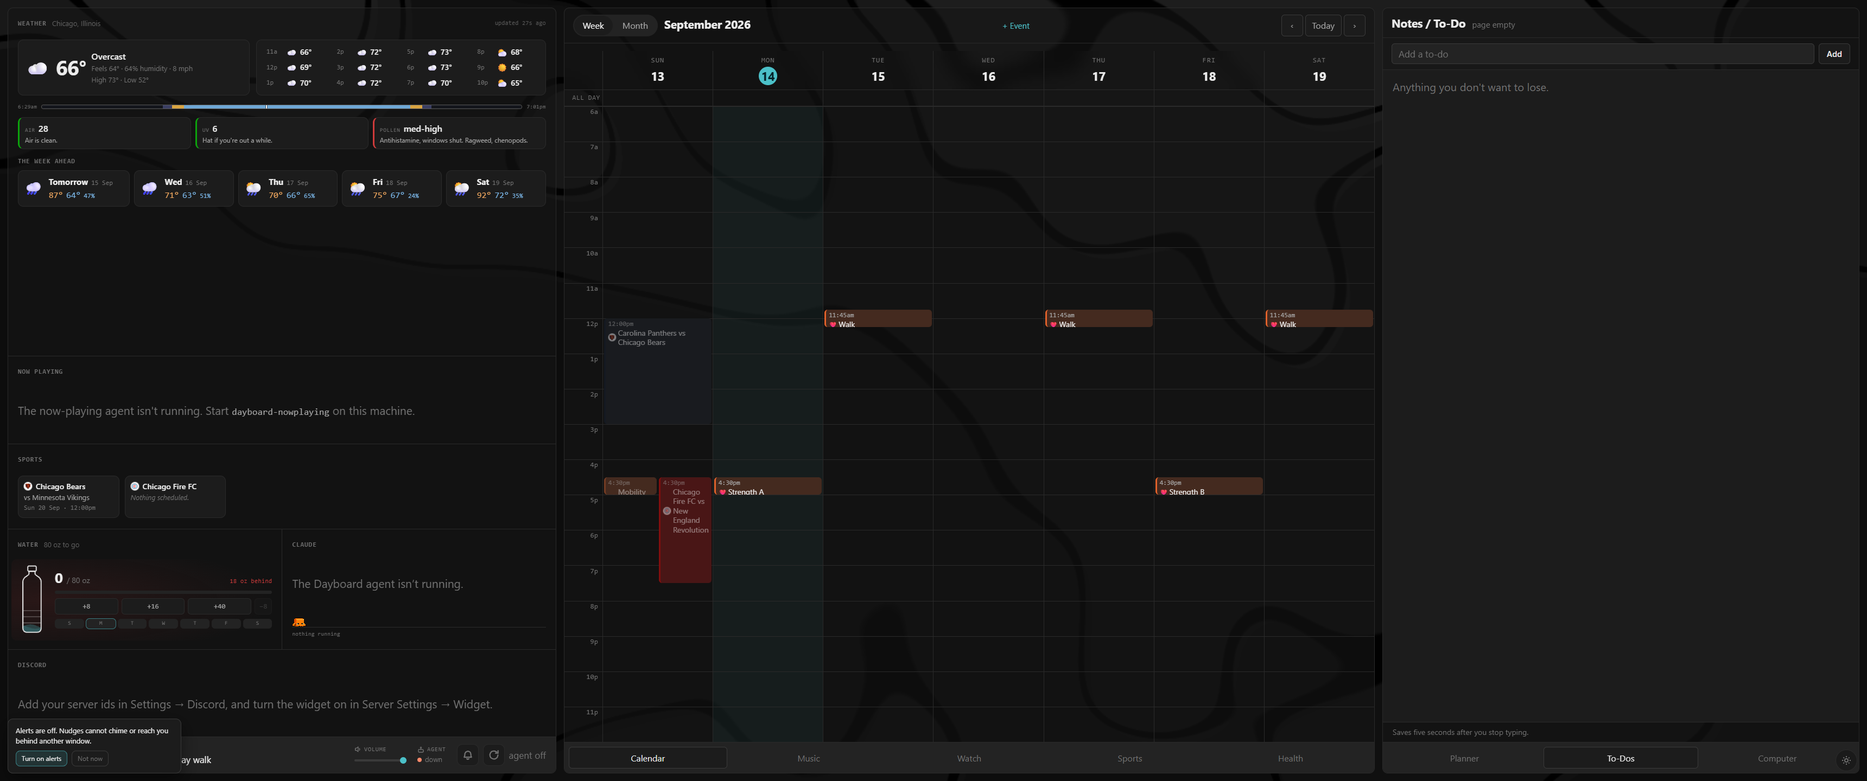
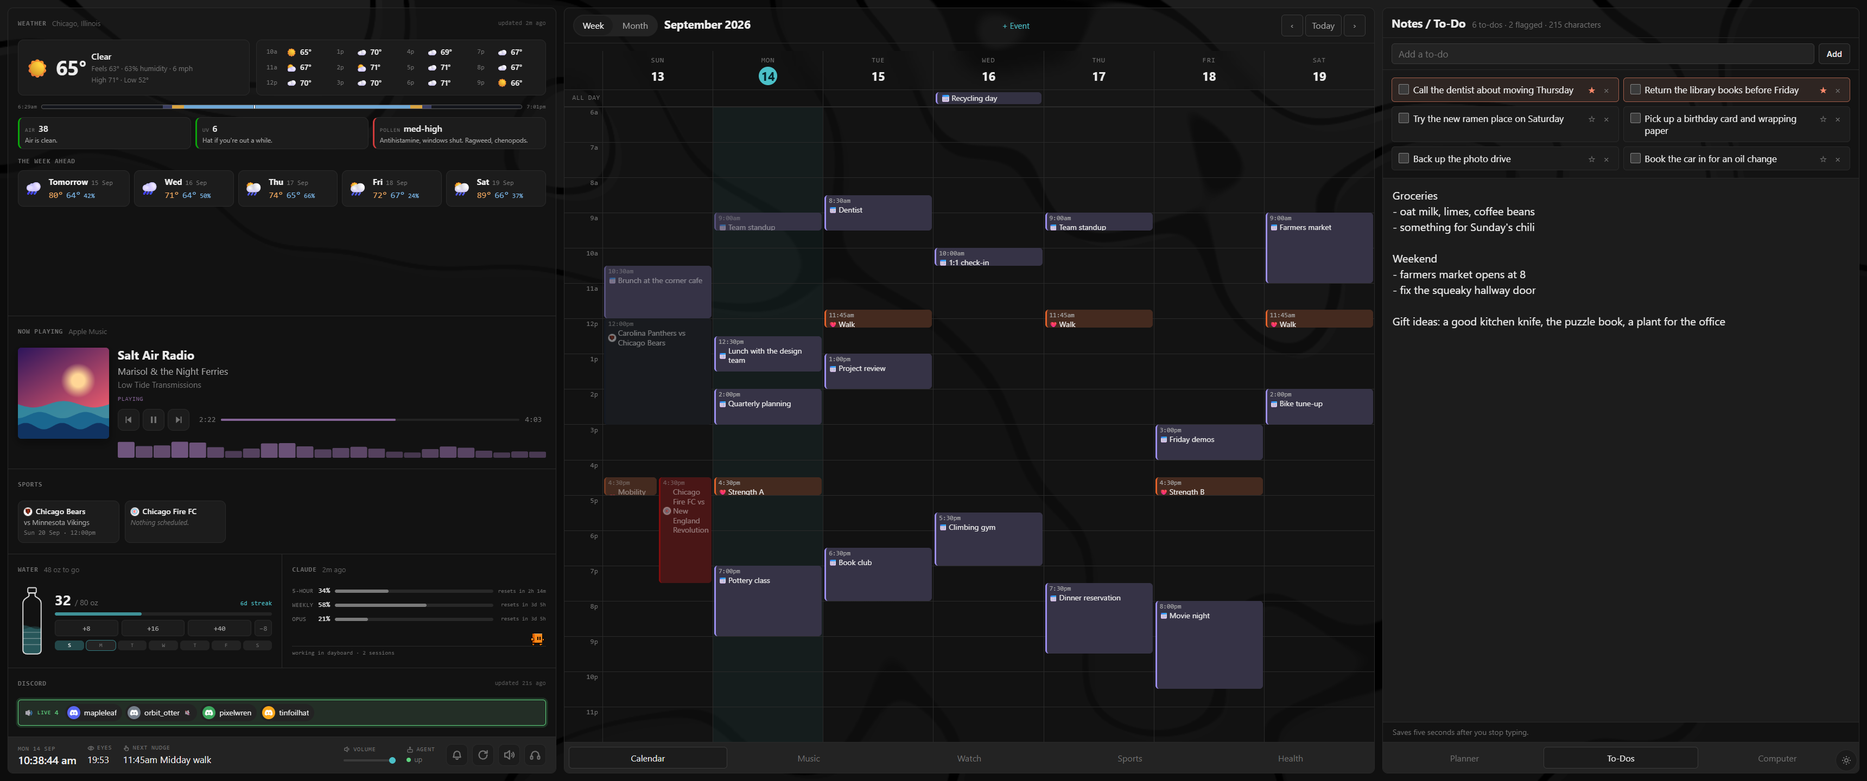
Health warning, credits, Clawd, and populated screenshots
The Health programme and its animations were written and drawn by Claude,
so the tab, the setup guide, the READMEs and the LICENSE now say that
plainly: not medical advice, check with a doctor, stop if it hurts, at
your own risk. The short warning sits under every Start (Today, the
session preview the agenda jumps to, the chair moves); the full note opens
in place and lives in one module.

Packages credits amazon-orders by Alex Laird. The pet on the shelf is
called what it is, a fan-art Clawd, with a note that Clawd is Anthropic's
and this is unofficial. The Discord line says where it is on the board.

The README opens with the board and a gallery, and every screenshot is
retaken with the widgets populated from invented sample data.

diff --git a/src/components/setup/SetupGuide.tsx b/src/components/setup/SetupGuide.tsx
@@ -8,6 +8,7 @@ import { updateSettings } from "@/lib/settings-actions";
 import { SCREEN_PRESETS, type ScreenPreset } from "@/lib/settings-schema";
 import { lightness, wallpaperGreys, screenZoom } from "@/lib/screen";
 import { selectTab } from "@/components/Panel";
+import { HEALTH_WARNING_FULL } from "@/lib/health/disclaimer";
 import { closeSetup, goToSection, isSection, openSetup, seedSetup, useSetupState, type SectionId } from "./setup-store";
 import { CheckButton, Command, Field, Lead, Lines, Note, SaveBar, Select, Steps, Text, Toggle } from "./fields";
 import {
@@ -324,7 +325,7 @@ function Welcome({ status }: SectionProps) {
     <>
       <Lead>
         Dayboard is a dashboard for your second monitor: your calendar in the middle, the weather,
-        the trains, what is playing and who is in voice down the left, and a row of tabs on the
+        the trains, what is playing and who is in your Discord Voice channel on the bottom left, and a row of tabs on the
         right for the to-dos, the mail, the packages and the machine. It refreshes itself every
         thirty seconds and never asks you to press anything.
       </Lead>
@@ -544,10 +545,11 @@ function Claude({ settings, writable }: SectionProps) {
     <>
       <Lead>
         If you use Claude Code, the board shows how much of the session and weekly limits is left,
-        as three thin bars beside the water bottle — and a small cat on a shelf that walks while
-        Claude is working, waves when it is waiting on you, and sleeps otherwise.
+        as three thin bars beside the water bottle — and a little fan-art Clawd, Claude Code&apos;s
+        mascot, on a shelf: walking while Claude is working, waving when it is waiting on you,
+        and asleep otherwise.
       </Lead>
-      <Toggle checked={claude.enabled} disabled={!writable} label="Show the usage bars and the cat" onChange={(enabled) => setClaude({ enabled })} />
+      <Toggle checked={claude.enabled} disabled={!writable} label="Show the usage bars and Clawd" onChange={(enabled) => setClaude({ enabled })} />
       <SaveBar dirty={dirty} disabled={!writable} onSave={() => updateSettings({ claude })} />
       <h4>What it needs</h4>
       <Steps>
@@ -560,8 +562,12 @@ function Claude({ settings, writable }: SectionProps) {
       <CheckButton name="claude" label="Check Claude" />
       <Note>
         Nothing is sent anywhere: the agent reads the CLI&apos;s own credentials file and asks
-        Anthropic for the usage numbers the CLI itself shows. The cat reads the CLI&apos;s session
+        Anthropic for the usage numbers the CLI itself shows. Clawd reads the CLI&apos;s session
         files to know whether something is running.
+      </Note>
+      <Note>
+        Clawd is Anthropic&apos;s character. This is unofficial fan art, not made or endorsed by
+        Anthropic; the sprites come from OpenPets (MIT).
       </Note>
     </>
   );
@@ -624,6 +630,10 @@ function Nudges(_: SectionProps) {
         out the screen for twenty seconds every twenty minutes, and <strong>nudges</strong>: a
         chime, a pulse on the tab and a Windows notification at the times you choose.
       </Lead>
+      <h4>Read this before you exercise</h4>
+      {HEALTH_WARNING_FULL.map((paragraph) => (
+        <p key={paragraph.slice(0, 32)}>{paragraph}</p>
+      ))}
       <h4>Your own nudges</h4>
       <p>
         Press the <strong>bell</strong> in the bottom-left row of the board. Every nudge is listed

diff --git a/src/lib/health/disclaimer.ts b/src/lib/health/disclaimer.ts
@@ -1,0 +1,37 @@
+/**
+ * The health and exercise warning, in one place.
+ *
+ * The Health tab, the setup guide and the READMEs all say this, and a warning
+ * that is worded three ways is three warnings with three sets of gaps. The
+ * READMEs carry the same text by hand (they cannot import); keep them in step
+ * when this changes.
+ *
+ * WHY IT SAYS "CLAUDE" SO PLAINLY. The programme, every cue and every drawn
+ * animation were written and illustrated by an AI model and reviewed by nobody
+ * qualified. A reader deciding whether to trust a squat cue is owed that fact
+ * before anything else, not after a paragraph of boilerplate.
+ */
+
+/** One line, for the foot of the Health tab where it is seen before every Start. */
+export const HEALTH_WARNING_SHORT =
+  "Written and drawn entirely by Claude, an AI — not by a doctor, a trainer, or this board's author. " +
+  "Not medical advice. Check with a doctor before you start, stop if anything hurts, and use it at your own risk.";
+
+/** The full note, paragraph by paragraph. */
+export const HEALTH_WARNING_FULL: readonly string[] = [
+  "The Health programme — the 52-week plan, every exercise, cue, set and rep scheme, the chair routine, the walk targets, " +
+    "the eye break, the notes on why — and every drawn animation of it were written and illustrated entirely by Claude, " +
+    "an AI model made by Anthropic. No doctor, physiotherapist, certified trainer or other qualified professional wrote, " +
+    "reviewed or approved any of it, and neither did the author of Dayboard by DD. It may contain mistakes: a wrong cue, " +
+    "an unsuitable progression, or an animation that shows a movement incorrectly.",
+  "It is general information, not medical advice, and it is not a substitute for a qualified professional who knows " +
+    "your health. Talk to a doctor before starting this or any exercise programme — especially if you are pregnant, " +
+    "have a heart, lung, joint, back or other medical condition, take medication, are recovering from an injury or " +
+    "surgery, or have not exercised in a while.",
+  "Stop straight away if you feel pain, dizziness, faintness, chest pain or unusual shortness of breath, and get " +
+    "medical help if it does not pass. The follow-along videos are other people's, hosted on YouTube; this project " +
+    "did not make them and does not vouch for them.",
+  "You use the Health tab entirely at your own risk. To the fullest extent the law allows, it is provided \"as is\", " +
+    "without warranty of any kind, and neither the author nor any contributor is liable for any injury, loss or damage " +
+    "arising from its use.",
+];

diff --git a/src/lib/claude-cat.ts b/src/lib/claude-cat.ts
@@ -1,5 +1,7 @@
 /**
- * The pet on the shelf.
+ * The pet on the shelf: a fan-art Clawd, Claude Code's mascot. Not a cat — the
+ * module, the component and the CSS still say "cat" because it replaced one,
+ * and renaming them buys nothing but churn. Anything a reader SEES says Clawd.
  *
  * Sprite strips derived from OpenPets' v2.5.1 default pet, which is MIT with no
  * carve-out for artwork — see public/pets/LICENSE-openpets.txt for the notice
@@ -7,10 +9,10 @@
  * hand-recoloured cat from the `pixel-buddy` pack, which was legally fine and
  * looked it; this is an eight-frame walk cycle drawn by someone who can draw.
  *
- * NOT clawd's artwork, despite what the files are called — that set is All
- * Rights Reserved fan art and may not be copied. These are OpenPets' own
- * sprites of their own character, which happens to be a similar orange
- * creature. OpenPets themselves replaced it with an owl after v2.5.1.
+ * Clawd is Anthropic's character and this is unofficial; the notices say so.
+ * There is a separate Clawd sprite set elsewhere that is All Rights Reserved
+ * and may not be copied — these are not those. OpenPets replaced its version
+ * with an owl after v2.5.1, which is why the tag is pinned.
  *
  * THE ANIMATION LIVES IN CSS, not here. globals.css keys the strip, the frame
  * count and the tempo off the shelf's data-state; this module exists only to

diff --git a/src/components/setup/sections.tsx b/src/components/setup/sections.tsx
@@ -796,7 +796,9 @@ export function AmazonSection({ settings, writable }: SectionProps) {
         What is on the way: recent Amazon orders as cards with the item, the carrier&apos;s latest
         scan and the delivery day, pulsing when one is out for delivery, and a warning when a
         return window is closing. A Python poller signs in as you and reads your order history —
-        there is no Amazon API for this, so it needs your credentials.
+        there is no Amazon API for this, so it needs your credentials. The poller is built on{" "}
+        <a href="https://github.com/alexdlaird/amazon-orders" target="_blank" rel="noopener noreferrer">amazon-orders</a> by
+        Alex Laird.
       </Lead>
       <Note tone="warn">
         Your Amazon password is stored in <code>data/settings.json</code> on this machine, in plain

diff --git a/src/components/health/HealthWarning.tsx b/src/components/health/HealthWarning.tsx
@@ -1,0 +1,23 @@
+import { HEALTH_WARNING_FULL, HEALTH_WARNING_SHORT } from "@/lib/health/disclaimer";
+
+/**
+ * The warning at the foot of the Health tab.
+ *
+ * Always there, never dismissable: it sits under the Start buttons on the one
+ * screen every session begins from, so it is in view each time rather than
+ * once on a first run nobody remembers. Quiet type, because it is read on an
+ * always-on display; the full note opens in place.
+ */
+export function HealthWarning() {
+  return (
+    <details className="healthwarning">
+      <summary>
+        <span className="health-eyebrow">Read first · </span>
+        {HEALTH_WARNING_SHORT}
+      </summary>
+      {HEALTH_WARNING_FULL.map((paragraph) => (
+        <p key={paragraph.slice(0, 32)}>{paragraph}</p>
+      ))}
+    </details>
+  );
+}

diff --git a/src/app/globals.css b/src/app/globals.css
@@ -4992,6 +4992,33 @@ a.teamtile:hover .teamtile-go,
   display: inline;
 }
 
+/* The health warning. Faint like the why-note beside it, but boxed and kept
+   off the edge so it reads as a notice, not as another stat hint. The warn
+   rule on the left is the only colour in it. */
+.healthwarning {
+  margin-top: 4px;
+  padding: 8px 12px;
+  border: 1px solid var(--line);
+  border-left: 3px solid var(--warn);
+  border-radius: 8px;
+  color: var(--ink-faint);
+  font-size: 12px;
+  line-height: 1.5;
+}
+
+.healthwarning summary {
+  cursor: pointer;
+}
+
+.healthwarning summary .health-eyebrow {
+  display: inline;
+  color: var(--warn);
+}
+
+.healthwarning p {
+  margin: 8px 0 0;
+}
+
 /* ---- blocks, stations, lists ---------------------------------------------- */
 
 .healthblocks {

diff --git a/src/components/health/HealthPlayer.tsx b/src/components/health/HealthPlayer.tsx
@@ -5,6 +5,7 @@ import { FIGURES, buildSteps, formatDuration, sideAt, type Feedback, type Sessio
 import { recordSession, sendFeedback } from "@/lib/health-actions";
 import { primeAudio } from "./beeps";
 import { ExerciseFigure } from "./ExerciseFigure";
+import { HealthWarning } from "./HealthWarning";
 import { SWITCH_SHOW_SEC, SwitchCallout, useSwitchCue } from "./switch-cue";
 import { useIntervalTimer } from "./useIntervalTimer";
 
@@ -202,6 +203,10 @@ export function HealthPlayer({
             </button>
           </div>
         </div>
+
+        {/* Here as well as on Today: the agenda's Start button lands on this
+            preview directly, without passing through Today. */}
+        <HealthWarning />
       </div>
     );
   }

diff --git a/src/components/health/HealthApp.tsx b/src/components/health/HealthApp.tsx
@@ -14,6 +14,7 @@ import { HealthHistory } from "./HealthHistory";
 import { HealthPlayer } from "./HealthPlayer";
 import { HealthSettings } from "./HealthSettings";
 import { HealthStage } from "./HealthStage";
+import { HealthWarning } from "./HealthWarning";
 import { EyeBreak } from "./EyeBreak";
 import { KindDot, kindLabel } from "./kind";
 import { WalkTimer } from "./WalkTimer";
@@ -447,6 +448,8 @@ function Today({
           </button>
         </div>
       </div>
+
+      <HealthWarning />
     </>
   );
 }

diff --git a/src/components/health/ChairPlayer.tsx b/src/components/health/ChairPlayer.tsx
@@ -14,6 +14,7 @@ import {
 import { recordChair } from "@/lib/health-actions";
 import type { HealthSnapshot } from "@/lib/health-store";
 import { ExerciseFigure } from "./ExerciseFigure";
+import { HealthWarning } from "./HealthWarning";
 import { SWITCH_SHOW_SEC, SwitchCallout, useSwitchCue } from "./switch-cue";
 import { useIntervalTimer } from "./useIntervalTimer";
 
@@ -402,6 +403,7 @@ export function ChairPreview({
           </button>
         </div>
       </div>
+      <HealthWarning />
     </>
   );
 }

diff --git a/README.md b/README.md
@@ -1,9 +1,9 @@
 # Dayboard by DD
 
 A dashboard for your second monitor. Your calendars in the middle; the weather, the
-trains, what is playing, the score and who is in voice down the left; the agenda,
-the to-dos, the mail, the packages and the machine's vitals in tabs on the
-right. Sports schedules for the teams you pick, live scores while they play, and
+trains, what is playing, the score and who is in your Discord Voice channel on the
+bottom left; the agenda, the to-dos, the mail, the packages and the machine's vitals
+in tabs on the right. Sports schedules for the teams you pick, live scores while they play, and
 the team's streaming site framed inside the board. A 52-week exercise programme
 with drawn animations, nudges, and a 20/20/20 eye break. YouTube uploads and
 Twitch streams that play in the board. A Stream Deck plugin to drive it all.
@@ -13,8 +13,24 @@ It refreshes itself every thirty seconds and never asks you to press anything.
 Next.js, JSON files as the database, no cloud, no accounts, no API keys for the
 basics. Windows for the whole thing; the board itself runs anywhere Node runs.
 
-**[Read the introduction](introduction/README.md)** for the walkthrough and the
-screenshots.
+![Dayboard by DD on a 3440x1440 ultrawide: the week's calendar in the middle, weather, Now Playing, scores, water and Discord voice on the left, the agenda on the right](introduction/board-3440x1440.png)
+
+<table>
+  <tr>
+    <td width="50%"><img src="introduction/board-watch-tab.png" alt="The Watch tab: new YouTube uploads and live Twitch streams"><br><sub><b>Watch</b> — new uploads and live streams, playing in the board</sub></td>
+    <td width="50%"><img src="introduction/board-sports-tab.png" alt="The Sports tab: a tile per team with the next fixture"><br><sub><b>Sports</b> — your teams, live scores, where it is on</sub></td>
+  </tr>
+  <tr>
+    <td width="50%"><img src="introduction/board-health-tab.png" alt="The Health tab: today's session, the chair routine, streak and week"><br><sub><b>Health</b> — a 52-week programme with drawn animations (<a href="#health-and-exercise-read-this-first">read the warning</a>)</sub></td>
+    <td width="50%"><img src="introduction/board-computer-tab.png" alt="The Computer tab: CPU, GPU, memory, drives, network and top processes"><br><sub><b>Computer</b> — the machine's vitals from a small local agent</sub></td>
+  </tr>
+  <tr>
+    <td width="50%"><img src="introduction/board-todos-tab.png" alt="The To-Dos tab: a checklist over a scratch page"><br><sub><b>To-Dos</b> — a checklist over a scratch page</sub></td>
+    <td width="50%"><img src="introduction/guide-welcome.png" alt="The setup guide that opens on first launch"><br><sub><b>The setup guide</b> — the whole configuration, on the board itself</sub></td>
+  </tr>
+</table>
+
+**[Read the introduction](introduction/README.md)** for the full walkthrough.
 
 ## Five minutes to a board
 
@@ -51,14 +67,14 @@ open http://localhost:6767. The guide still opens.
 | **Sports** | A layer per team with fixtures and alarms, live scores, where-to-watch links, the streaming site framed in the board | ESPN's public API, or an ICS feed |
 | **Watch** | New uploads from your YouTube channels, live Twitch streams you follow, playing in the board | YouTube RSS (no key), Twitch (one-time authorization) |
 | **Music** | Your music service's web player, framed as a tab | Apple Music, YouTube Music, Spotify, Tidal, … |
-| **Health** | A 52-week strength and mobility programme, drawn exercise animations, walk timer, chair routine, nudges, the eye break | Built in |
-| **Discord** | Who is in voice on your servers, a chime when someone joins | The server widget; optionally a bot |
+| **Health** | A 52-week strength and mobility programme, drawn exercise animations, walk timer, chair routine, nudges, the eye break — written and drawn by Claude, an AI; [read this first](#health-and-exercise-read-this-first) | Built in |
+| **Discord** | Who is in your Discord Voice channel on the bottom left, a chime when someone joins | The server widget; optionally a bot |
 | **Now Playing / Computer** | Album art and a live EQ, CPU/GPU/memory/fans/drives/network health, top processes | The PC agent (C#, local) |
 | **Mail** | The newest messages in one mailbox, delete from the board | IMAP, an app password |
-| **Packages** | Amazon orders on the way, out-for-delivery pulses, return windows | Your Amazon login (local poller) |
+| **Packages** | Amazon orders on the way, out-for-delivery pulses, return windows | Your Amazon login, via [amazon-orders](https://github.com/alexdlaird/amazon-orders) (local poller) |
 | **Planner / To-Dos / Notes** | The agenda, a checklist, a scratch page | Built in |
 | **Water** | A bottle that fills, a daily goal, a streak | Built in |
-| **Claude usage** | Session and weekly limits as thin bars, and a cat that walks while Claude works | The Claude CLI's own login |
+| **Claude usage** | Session and weekly limits as thin bars, and a fan-art Clawd that walks while Claude works | The Claude CLI's own login |
 | **Subway** | Next trains at your station and disruptions on your lines | MTA (New York only, off by default) |
 | **Stream Deck** | Tabs, videos, streams, teams, water, sound, alerts, reset | The plugin in `deck/` |
 
@@ -112,9 +128,45 @@ scripts/               setup, deploy, the daily refresh, and the CLIs
 - **amazon.com only** for Packages, and it stores your Amazon password locally in plain text. The section says so before you turn it on.
 - The board listens on **localhost only** and every write is refused from anywhere else. There is no login: the machine is the boundary.
 
+## Health and exercise: read this first
+
+The Health programme — the 52-week plan, every exercise, cue, set and rep
+scheme, the chair routine, the walk targets, the eye break, the notes on why —
+and every drawn animation of it were **written and illustrated entirely by
+Claude, an AI model made by Anthropic**. No doctor, physiotherapist, certified
+trainer or other qualified professional wrote, reviewed or approved any of it,
+and neither did the author of Dayboard by DD. It may contain mistakes: a wrong
+cue, an unsuitable progression, or an animation that shows a movement
+incorrectly.
+
+It is general information, **not medical advice**, and it is not a substitute
+for a qualified professional who knows your health. Talk to a doctor before
+starting this or any exercise programme — especially if you are pregnant, have a
+heart, lung, joint, back or other medical condition, take medication, are
+recovering from an injury or surgery, or have not exercised in a while.
+
+Stop straight away if you feel pain, dizziness, faintness, chest pain or unusual
+shortness of breath, and get medical help if it does not pass. The follow-along
+videos are other people's, hosted on YouTube; this project did not make them and
+does not vouch for them.
+
+**You use the Health tab entirely at your own risk.** To the fullest extent the
+law allows, it is provided "as is", without warranty of any kind, and neither the
+author nor any contributor is liable for any injury, loss or damage arising from
+its use. The same warning is at the foot of the Health tab and in the setup
+guide.
+
 ## Credits
 
-The cat is the OpenPets default pet (MIT — `public/pets/LICENSE-openpets.txt`).
+The Packages poller is built on
+**[amazon-orders](https://github.com/alexdlaird/amazon-orders) by
+[Alex Laird](https://github.com/alexdlaird)** (MIT), which does the real work of
+reading Amazon's order history.
+
+The pet on the shelf is **fan art of Clawd**, the Claude Code mascot, from the
+OpenPets default pet (MIT — `public/pets/LICENSE-openpets.txt`). Clawd and Claude
+are Anthropic's; this project is not affiliated with or endorsed by Anthropic.
+
 The animated background is a recreation of "Minimalist Black" by ElliotIsLame
 for Wallpaper Engine. Weather from Open-Meteo, schedules and scores from ESPN's
 public endpoints, transit from the MTA.

diff --git a/introduction/README.md b/introduction/README.md
@@ -10,7 +10,7 @@ Most desks have a screen that mostly shows a wallpaper. This turns that screen i
 
 The calendar sits in the middle. Every calendar you already keep (Google, iCloud, Outlook, the work one) lands on it in its own colour, and so do your teams' fixtures, your birthdays, and the day's workout.
 
-Down the left: the weather, what's playing, the score, a water bottle, and who's in Discord voice. Nothing to click. You glance.
+Down the left: the weather, what's playing, the score, a water bottle, and who is in your Discord Voice channel on the bottom left. Nothing to click. You glance.
 
 On the right, a row of tabs. The agenda, the to-dos, the machine's vitals, the mail, the packages on the way.
 
@@ -92,6 +92,8 @@ Discord, YouTube, Twitch, email, Amazon packages, the PC agent, Claude usage, yo
 
 **Health.** A 52-week strength and mobility programme with the exercises drawn as animations, a walk timer, a five-minute chair routine, nudges at the times you choose, and a 20/20/20 eye break that blacks the screen out for twenty seconds every twenty minutes.
 
+> **Read this before you exercise.** The programme, every cue and every drawn animation were written and illustrated entirely by Claude, an AI. No doctor or trainer reviewed any of it, and neither did I. It can be wrong. It is not medical advice. Check with a doctor before you start, stop if anything hurts, and use it at your own risk. The [full warning](../README.md#health-and-exercise-read-this-first) is in the main README, and a short one sits at the foot of the tab.
+
 ![To-dos](board-todos-tab.png)
 
 **To-Dos.** A checklist over a scratch page. Ticking a box deletes the to-do. The page saves itself.
@@ -140,7 +142,7 @@ Next.js. JSON files as the database. No cloud, no accounts.
 
 Everything you type into the guide goes into `data/settings.json`, which is ignored by git. The team schedules come from ESPN's public endpoints, refreshed daily by a scheduled task. Weather is Open-Meteo. Nothing here needs an API key.
 
-The cat on the shelf is the OpenPets default pet, MIT licensed. The moving background is a recreation of ElliotIsLame's "Minimalist Black" for Wallpaper Engine.
+Packages is built on [amazon-orders](https://github.com/alexdlaird/amazon-orders) by Alex Laird, which does the hard part. The little one on the shelf is fan art of Clawd, the Claude Code mascot, from the OpenPets default pet (MIT); Clawd is Anthropic's, and this isn't affiliated with them. The moving background is a recreation of ElliotIsLame's "Minimalist Black" for Wallpaper Engine.
 
 `docs/architecture.md` has the rules worth knowing before you change anything. `docs/setup.md` is the whole guide in text form.
 

diff --git a/docs/agents.md b/docs/agents.md
@@ -13,7 +13,7 @@ One process, one port (7343, loopback only), several routes:
 | `/nowplaying`, `/art`, `/events` (SSE) | Now Playing: the Windows media session, album art, a WASAPI loopback FFT for the EQ |
 | `/vitals` | The Computer tab: CPU, GPU, memory, fans, drives, disks, network, top processes (LibreHardwareMonitor) |
 | `/audio` | The headphones/speakers toggle and mic mute, through Voicemeeter's Remote API |
-| `/claude`, `/claude/activity` | The Claude usage bars and the cat: the CLI's credentials file and session files |
+| `/claude`, `/claude/activity` | The Claude usage bars and Clawd: the CLI's credentials file and session files |
 | `/board` | Keeps the board window on top and fullscreen (a KVM leaves the taskbar over it otherwise) |
 
 The browser reads it directly — a server has no route to 127.0.0.1 on your
@@ -77,7 +77,8 @@ run_poll.cmd
 
 ## The Amazon poller — `agent/amazon` (Python 3)
 
-`amazon-orders` plus Playwright's Chromium for the sign-in challenge. Reads the
+Built on [amazon-orders](https://github.com/alexdlaird/amazon-orders) by Alex
+Laird (MIT), plus Playwright's Chromium for the sign-in challenge. Reads the
 `amazon` section of settings, writes `data/packages.json`. There is no Amazon
 API for this, so it signs in as you.
 
